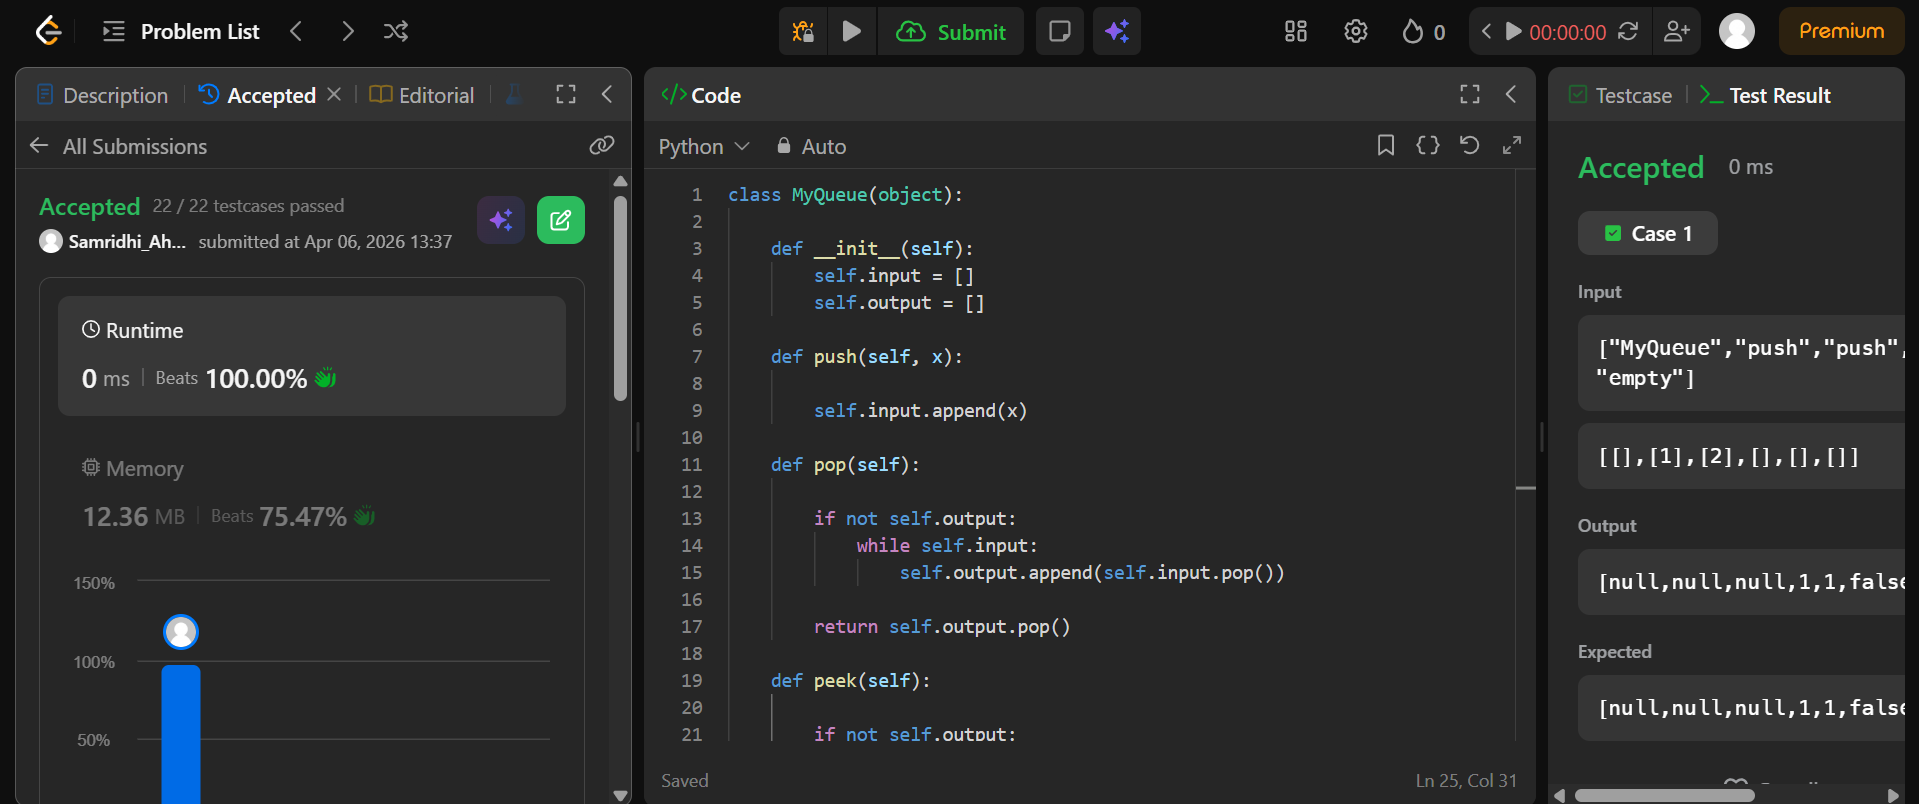
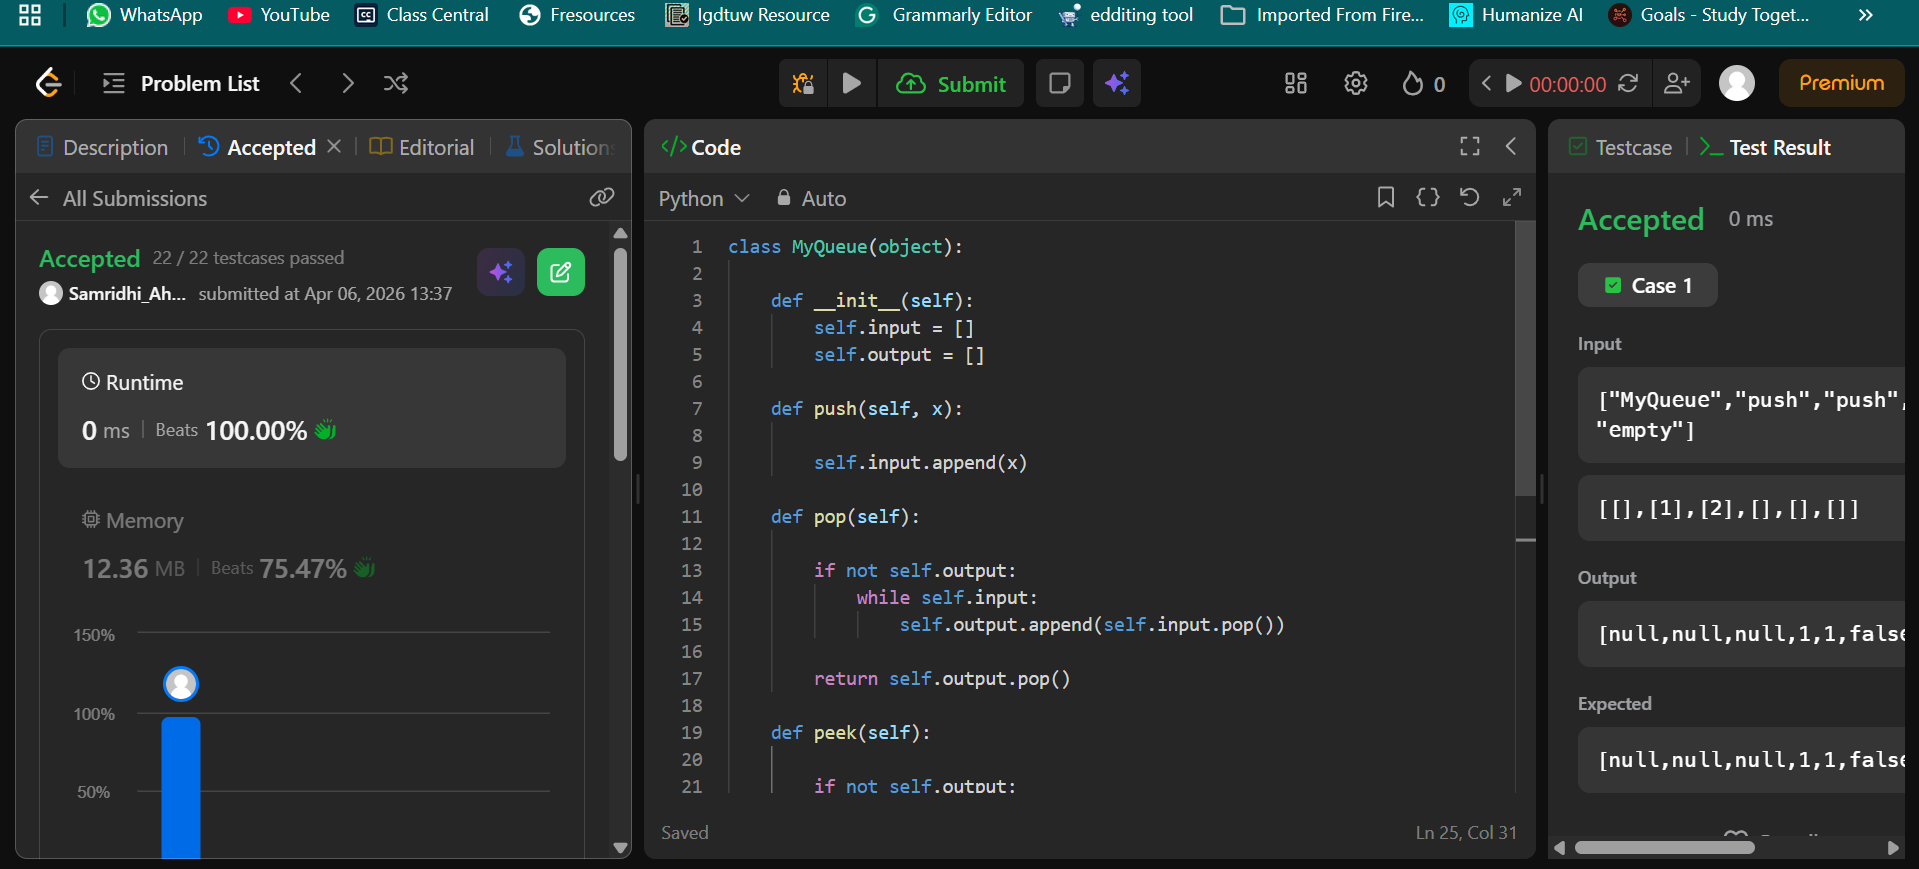
Day-14 and some folder errors

diff --git a/Day-13/SamridhiAhuja_4-4-26_Day-13.md b/Day-13/SamridhiAhuja_4-4-26_Day-13.md
@@ -1,35 +1,23 @@
 ## Easy Solution
-```class MyQueue(object):
-
-    def __init__(self):
-        self.input = []
-        self.output = []
-
-    def push(self, x):
-
-        self.input.append(x)
-
-    def pop(self):
-      
-        if not self.output:
-            while self.input:
-                self.output.append(self.input.pop())
-        
-        return self.output.pop()
-
-    def peek(self):
-        
-        if not self.output:
-            while self.input:
-                self.output.append(self.input.pop())
-        
-        return self.output[-1]
-
-    def empty(self):
-        
-        return not self.input and not self.output
+```class Solution(object):
+    def isValid(self, s):
+        stack=[]
+        for i in s:
+            if i in "([{":
+                stack.append(i)
+            else:
+                if not stack:
+                    return False
+                else:
+                    ch=stack[-1]
+                    stack.pop()
+                    if (ch=="(" and i==")") or (ch=="["and i=="]") or (ch=="{" and i=="}"):
+                        continue
+                    else:
+                        return False
+        return len(stack)==0
 ```
-![alt text](image-1.png)
+![alt text](image.png)
 
 
 

diff --git a/Day-14/SamridhiAhuja_6-4-26_Day-14.md b/Day-14/SamridhiAhuja_6-4-26_Day-14.md
@@ -1,0 +1,37 @@
+## Easy Solution
+```class MyQueue(object):
+
+    def __init__(self):
+        self.input = []
+        self.output = []
+
+    def push(self, x):
+
+        self.input.append(x)
+
+    def pop(self):
+      
+        if not self.output:
+            while self.input:
+                self.output.append(self.input.pop())
+        
+        return self.output.pop()
+
+    def peek(self):
+        
+        if not self.output:
+            while self.input:
+                self.output.append(self.input.pop())
+        
+        return self.output[-1]
+
+    def empty(self):
+        
+        return not self.input and not self.output
+```
+![alt text](image-1.png)
+
+
+
+
+
